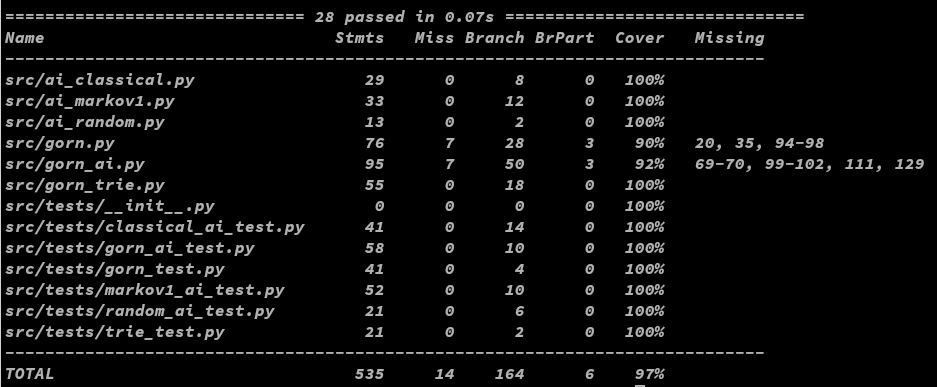
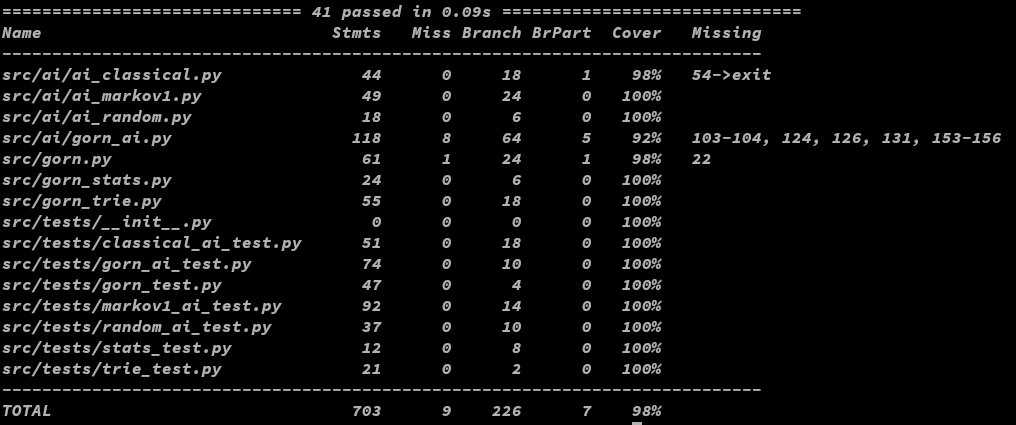
Raportti päivitetty

diff --git a/dokumentaatio/testausdokumentti.md b/dokumentaatio/testausdokumentti.md
@@ -2,10 +2,10 @@
 
 ### Testaus
 
- Sovellusta on testattu 2 eri koneella Linuxilla(OpenSuse tumbleweed), sekä windows 10 koneella. Sovellus toimii oikein kaikilla testialustoilla, mutta poetryn asentama termcolor kirjasto ei toiminut ja se piti asentaa itse. Termcolor kirjaston toiminta vaati pienen lisäyksen käyttöliittymä-luokkaan.
+ Sovellusta on testattu 2 eri koneella, pääosin Linux:lla (OpenSuse tumbleweed), sekä sovelluksen toimivuutta on testattu windows 10 kannettavalla. Sovellus toimii oikein kaikilla testialustoilla, mutta poetryn asentama termcolor kirjasto ei toiminut ja se piti asentaa itse. Termcolor kirjaston toiminta windows:lla vaati myös pienen lisäyksen käyttöliittymä-luokkaan.
 
 ### Yksikkötestaus ja suorituskyky
- Sovelluksen Yksikkötestaus on suoritettu unittestillä ja se kattaa tällä hetkellä kaiken muun paitsi käyttöliittymän. 
+ Sovelluksen Yksikkötestaus on suoritettu unittestillä ja se kattaa tällä hetkellä kaiken muun paitsi käyttöliittymän. Testikattavuudeksi on saatu 98%.
  
  ![testausraportti](./kuvat/testiraportti_vk4.png)
  
@@ -13,11 +13,13 @@
  
  ![testaamatta](./kuvat/testaamatta_1.png)
  
- Sovellukseen on lisätty testausta varten omavaihtoehto sovelluksen sulkemisen sijaan. Sovelluksen testit ajetaan automaattisesti aina, kun githubiin tehdään muutoksia ja testiraportit ovat nähtävillä codecovissa.
+ Sovellukseen on lisätty testausta varten oma vaihtoehto sovelluksen sulkemisen sijaan. Sovelluksen testit ajetaan automaattisesti aina, kun githubiin tehdään muutoksia ja testiraportit ovat nähtävillä codecovissa.
 
-#### suorituskyky
+#### Suorituskyky
 
-Sovelluksen suorituskykyä mitataan siten, miten se pärjää pelissä ihmistä vastaan. Kuitenkin Trie tietorakenteen suorituskyky on mitattu yksinkertaisella python-skriptillä. Sovellus tallentaa Triehen Aleksis Kiven Seitsemän veljestä kirjan, joka on ladattu osoitteesta https://www.gutenberg.org/ebooks/11940. Se mittaa kuinka kauan menee tallentaa joka sana, sekä prosessin muistinvarauksen muutoksen trie-rakenteeseen tallentamisen jälkeen. Testin tulos omalla koneella (ryzen 3700x, 32gb ram, openSuse linux, kernel 5.16.10) oli seuraavanlainen:
+Sovelluksen suorituskyvyn mittaaminen on toteutettu pelaamalla peliä ja kirjaamalla tulokset talteen. AI:n suorituskyvyn mittarina onkin se, miten se pärjää pelissä ihmistä vastaan, eli kuinka suuren osan tietyn pituisista peleistä AI voittaa.
+
+ Kuitenkin Trie tietorakenteen suorituskyky on mitattu yksinkertaisella python-skriptillä. Sovellus tallentaa Triehen Aleksis Kiven Seitsemän veljestä kirjan, joka on ladattu osoitteesta https://www.gutenberg.org/ebooks/11940. Se mittaa kuinka kauan menee tallentaa joka sana, sekä prosessin muistinvarauksen muutoksen trie-rakenteeseen tallentamisen jälkeen. Testin tulos omalla koneella (ryzen 3700x, 32gb ram, openSuse linux, kernel 5.16.10) oli seuraavanlainen:
 
 ![testaamatta](./kuvat/trie_test.png)
 
@@ -25,33 +27,55 @@ Trie tyyppinen rakenne toimii siis melko nopeasti, mutta muistin varauksen muuto
  
 ### Koodin laatu
 
-Koodin laatua tarkastetaan ja ylläpidetään pylintin avulla. Viimeisin pylint tarkastus antoi arvosanan 9.84/10. 
+Koodin laatua tarkastetaan ja ylläpidetään pylintin avulla. Viimeisin pylint tarkastus antoi arvosanan 9.93/10. Pieniä laatuvirheitä koodissa olivat liian monta atribuuttia (10/8) yms.
 
 ### Pelin testaus
 
- Sovelluksella on vasta hieman testattu siten, että tuloksia on otettu talteen. Testauksen toteutuksen määrittely ei ole vielä valmis. Peliä on testattu vain KPS moodissa.
- Pelitulokset ovat jakautuneet seuraavasti:
+ Sovelluksen suoritusta on testattu pelitesteillä, joista tulokset on kirjattu talteen. Testausta on tehty eri pelityypeillä eri pituisina sarjoina. Gorn AI:n testaus on suoritettu muista erikseen hieman eri tavoin. Sovellusta ovat testanneet eri henkilöt, vaikka pääosa peleistä on kuitenkin yhden henkilön pelaamia ja sen vuoksi kaikkia tuloksia ei ole kirjattu ylös varsinkin, kun ne ovat olleet käytännössä linjassa ylös kirjattujen tulosten kanssa. KPS moodissa testattuna pelien kierrosten voitot ovat jakautuneet seuraavasti: 
+
+* Satunnainen AI, kun pelejä pelattu 8 ja pelin keskimääräinen pituus 46 kierrosta:
+    - pelaaja:   31,98%
+    - tietokone: 31,51%
+    - tasapeli:  36,51% 
+* Klassista todennäköisyyttä käyttävä AI, kun pelejä pelattu 8 ja keskimääräinen pituus 53 kierrosta:
+    - pelaaja:   35,41%
+    - tietokone: 34,83%
+    - tasapeli:  29,76%
+* 1.asteen Markov, kun pelejä 7 ja keskimääräinen pituus 59 kierrosta:
+*    - pelaaja:   32,03%
+    - tietokone: 33,36%
+    - tasapeli:  34,61%
+
+Jakaumat ovat eri pelimalleilla melko samanlaisia, mutta Markovin ketjua käyttävää AI:ta varten näin lyhyet testipelit ovat liian lyhyitä. Sen suoritus vaikuttaa parantuvan kun peli pidentyy. Toisaalta pelaaja löytää melko helposti järjestelmän, jolla pysyä johdossa. Pelitulokset muuttuvat, varsinkin tasapelien osalta, kun mukaan otetaan lisko ja Spock vaihtoehdot:
+
+* Satunnainen AI, kun pelejä pelattu 3 ja pelin keskimääräinen pituus 75 kierrosta:
+    - pelaaja:   43%
+    - tietokone: 39%
+    - tasapeli:  18% 
+* Klassista todennäköisyyttä käyttävä AI, kun pelejä pelattu 3 ja keskimääräinen pituus 75 kierrosta:
+    - pelaaja:   37%
+    - tietokone: 42%
+    - tasapeli:  21%
+* 1.asteen Markov, kun pelejä 3 ja keskimääräinen pituus 85 kierrosta:     
+*   - pelaaja:   41%
+    - tietokone: 45%
+    - tasapeli:  14%
+
+Testipelejä on kuitenkin vain 3 AI-mallia kohden, joka on riittämätön kunnollisen päätelmän tekemiseen. Kuitenkin selkeä ero tasapelien vähentymisessä on havaittavissa. 
  
-* Satunnainen AI, kun pelejä pelattu 7 ja pelin keskimääräinen pituus 45 kierrosta:
-    - pelaaja:   31,43%
-    - Tietokone: 32,24%
-    - tasapeli:  36,33% 
-* Klassista todennäköisyyttä käyttävä AI, kun pelejä 7 ja keskimääräinen pituus 50 kierrosta:
-    - pelaaja:   35,37%
-    - Tietokone: 34,50%
-    - tasapeli:  30,13%
-* 1.asteen Markov, kun pelejä 3 ja keskimääräinen pituus 43 kierrosta:
-    - pelaaja:   34,33%
-    - Tietokone: 33,38%
-    - tasapeli:  32,29%
+Testeissä satunnainen AI voitti keskimäärin hieman alle 1/3, klassinen AI hieman vajaa 40%  ja Markov1 vajaa 50% peleistä.
     
- Vaihtelevan pituisia Markovin-ketjuja käyttävä AI:n suoritusta mitattu 150, 175 ja 200 erän sarjoilla. Peliä ei ole tilastoitu Lisko ja Spock vaihtoehdoilla. Joitain testejä on tehty ja todettu, että pelisarjojen pitää olla huomattavasti pidempiä, kuin KPS moodissa, jotta AI alkaa suoriutumaan paremmin. Kaavioissa pystyakselilla voitot prosentteina ja vaaka-akselilla pelatut erät:
+#### Tulokset Gorn AI:lla
+ Vaihtelevanpituisia Markovin-ketjuja käyttävä Gorn AI:n suoritusta mitattu 150, 175 ja 200 erän sarjoilla. Peliä ei ole tilastoitu Lisko ja Spock vaihtoehdoilla. Joitain testejä on tehty ja todettu, että pelisarjojen pitää olla huomattavasti pidempiä, kuin KPS moodissa, jotta AI alkaa suoriutumaan paremmin. Kaavioissa pystyakselilla voitot prosentteina ja vaaka-akselilla pelatut erät, kun vaihdellaan 5 mallin välillä huomioiden 5 kierroksen historia:
 
 ![testaamatta](./kuvat/voitto_suhteet_gornai.png)
     
 
- Näitä on ehkä syytä testata vielä pidemmillä peleillä. AI:n suoritumisessa on jonkin verran eroja kun focusta, eli kuinka monen kierroksen ajalta menestystä seurataan, ja mallien määrää muutetaan:
+ Näitä on ehkä syytä testata vielä pidemmillä peleillä. AI:n suoritumisessa on jonkin verran eroja, kun fokusta tai mallien määrää vaihdetaan, eli kuinka monen kierroksen ajalta menestystä seurataan ja kuinka pitkiä Markovin ketjuja käytetään.
 
 ![testaamatta](./kuvat/voittosuhteet_eri_mallit.png)
 
-Testejä on suoritettu eri malleilla ja fokuksilla. Vaikuttaisi siltä, että parhaiten AI suoriutuu kun focus on 4 - 5 ja malleja käytössä 4 - 6. 
+Testejä on suoritettu eri malleilla ja fokuksilla. Vaikuttaisi siltä, että parhaiten AI suoriutuu kun fokus on 4 - 5 ja malleja käytössä 4 - 6. 
+
+KPS pelatessa yli 200 kierroksen pelejä, on AI voittanut noin 60% peleistä.
+
